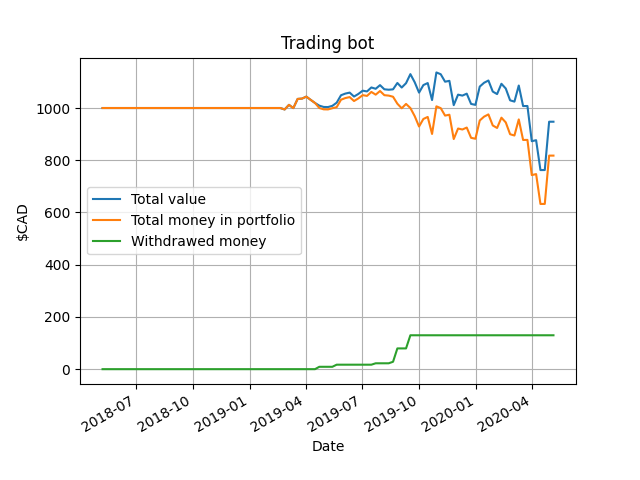
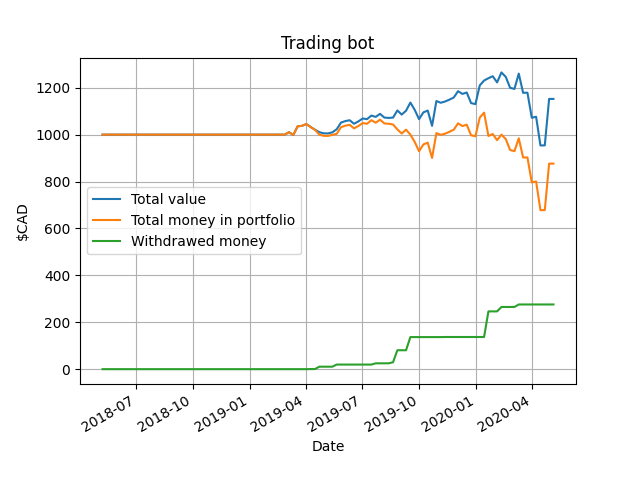
Won't by in overbought territory

diff --git a/api.py b/api.py
@@ -5,37 +5,51 @@ class PaperApi:
         csv_file = csv.reader(open(f'data/{symbol}.csv', 'r'), delimiter=',')
         for i, row in enumerate(csv_file):
             if row[0] == date:
-                fifty_d_avg = self.fifty_days_avg(i, symbol)
-                minus_t_hundred_d = self.two_hundred_days_avg(i, symbol)
                 return {
                     'symbol': symbol,
                     'open': row[1],
                     'close': row[4],
                     'volume': row[5],
-                    '50d_avg': fifty_d_avg,
-                    '200d_avg': minus_t_hundred_d,
+                    '50d_avg': self.days_avg(i, 50, symbol),
+                    '200d_avg': self.days_avg(i, 200, symbol),
+                    'rsi': self.rsi(i, symbol)
                 }
 
-    def fifty_days_avg(self, i, symbol):
-        fifty_d_avg = 0
-        minus_fifty_d = i - 50
-        if minus_fifty_d > 0:
-            fifty_d_avg_list = [
+    def days_avg(self, i, nb_days, symbol):
+        avg = 0
+        minus_days = i - nb_days
+        if minus_days > 0:
+            avg_list = [
                 float(r[4])
                 for y, r in enumerate(csv.reader(open(f'data/{symbol}.csv', 'r'), delimiter=','))
-                if y >= minus_fifty_d and y < i
+                if y >= minus_days and y < i
             ]
-            fifty_d_avg = sum(fifty_d_avg_list) / len(fifty_d_avg_list)
-        return fifty_d_avg
+            avg = sum(avg_list) / len(avg_list)
+        return avg
 
-    def two_hundred_days_avg(self, i, symbol):
-        t_hundred_d_avg = 0
-        minus_t_hundred_d = i - 200
-        if minus_t_hundred_d > 0:
-            t_hundred_d_avg_list = [
-                float(r[4])
+    def closing_diff(self, i, nb_days, symbol):
+        diffs = []
+        minus_days = i - nb_days
+        if minus_days > 0:
+            diffs = [
+                round(float(r[4]) * 100 / float(r[1]) - 100, 2)
                 for y, r in enumerate(csv.reader(open(f'data/{symbol}.csv', 'r'), delimiter=','))
-                if y >= minus_t_hundred_d and y < i
+                if y >= minus_days and y < i
             ]
-            t_hundred_d_avg = sum(t_hundred_d_avg_list) / len(t_hundred_d_avg_list)
-        return t_hundred_d_avg
+        return diffs
+
+    def rsi(self, i, symbol):
+        diffs = self.closing_diff(i, 14, symbol)
+        if len(diffs) == 14:
+            avg_pos_list = [n for n in diffs if n >= 0]
+            avg_neg_list = [n for n in diffs if n < 0]
+            len_avg_pos_list = len(avg_pos_list)
+            len_avg_neg_list = len(avg_neg_list)
+
+            if len_avg_pos_list == 0:
+                calc = 100 - abs(100 / (1 + (abs(sum(avg_neg_list) / len_avg_neg_list) / 14)))
+            elif len_avg_neg_list == 0:
+                calc = 100 - abs(100 / (1 + (sum(avg_pos_list) / len_avg_pos_list) / 14) / 14)
+            else:
+                calc = 100 - abs(100 / (1 + ((sum(avg_pos_list) / len_avg_pos_list) / 14) / (abs(sum(avg_neg_list) / len_avg_neg_list) / 14)))
+            return calc

diff --git a/models/portfolio.py b/models/portfolio.py
@@ -15,6 +15,8 @@ class Portfolio:
         self.withdraw_money = withdraw_money
         self.total_trades = 0
         self.wins = 0
+        self.best_trade = 0
+        self.worst_trade = 0
         print('New portfolio with 1000$ of base capital')
 
     def snapshot(self, date):
@@ -43,6 +45,10 @@ class Portfolio:
         new_positions = [position for position in self.positions if position['symbol'] != symbol]
         self.positions = new_positions
         self.capital += new_value
+        if self.best_trade < new_value:
+            self.best_trade = new_value
+        if self.worst_trade > new_value:
+            self.worst_trade = new_value
         self.total_trades += 1
         self.refresh_market_value(date)
 
@@ -90,7 +96,9 @@ class Portfolio:
 
     def check_for_buy(self, data, date):
         if data is not None:
-            if data['50d_avg'] > data['200d_avg'] and (data['50d_avg'] > 0 and data['200d_avg'] > 0):
+            if (data['50d_avg'] > 0 and data['200d_avg'] > 0) and\
+                data['50d_avg'] > data['200d_avg'] and\
+                data['rsi'] < 70:
                 max_price = self.position_size * self.capital
                 nb_actions = int(round((max_price / float(data['close'])), 0))
                 self.add_position(

diff --git a/app_train.py b/app_train.py
@@ -17,7 +17,7 @@ class TrainingBot:
     def get_portfolio(self):
         return Portfolio(
             capital=1000.00,
-            profit_per=0.0102,
+            profit_per=0.0101,
             loss_per=0.01,
             position_size=0.11,
             withdraw_money=True
@@ -39,6 +39,8 @@ class TrainingBot:
             Total amount: {round(self.portfolio.capital + self.portfolio.market_value + self.portfolio.withdrawed_capital, 2)}$
             Total trades: {self.portfolio.total_trades}
             Overall win %: {round(self.portfolio.wins * 100 / self.portfolio.total_trades, 2)}%
+            Best trade: {round(self.portfolio.best_trade)}$
+            Worst trade: -{round(self.portfolio.worst_trade)}$
         ''')
         self.plot_results()
 
